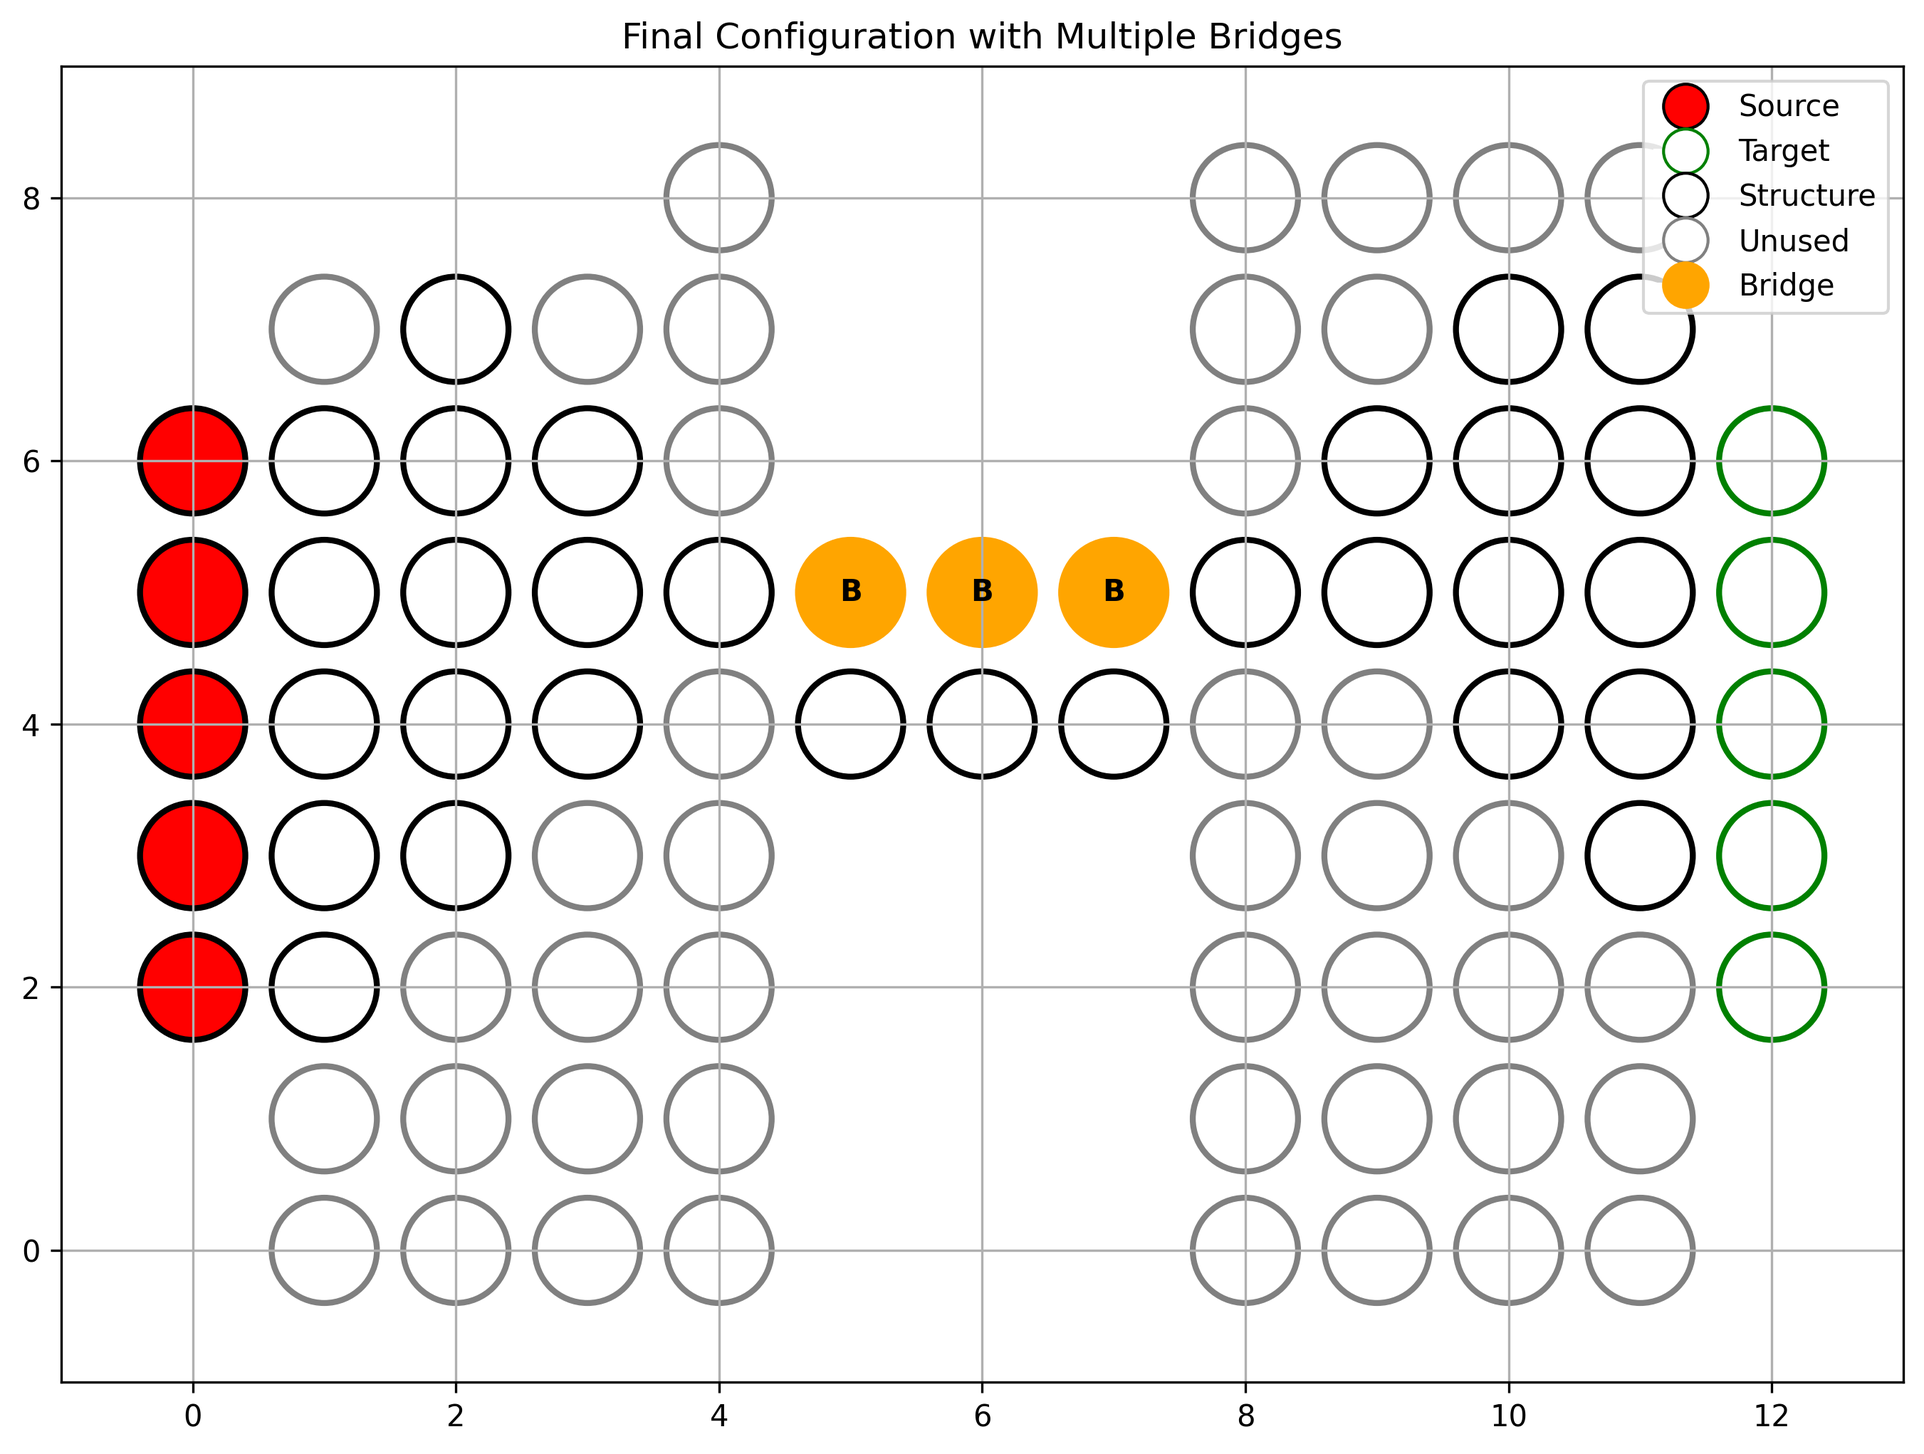
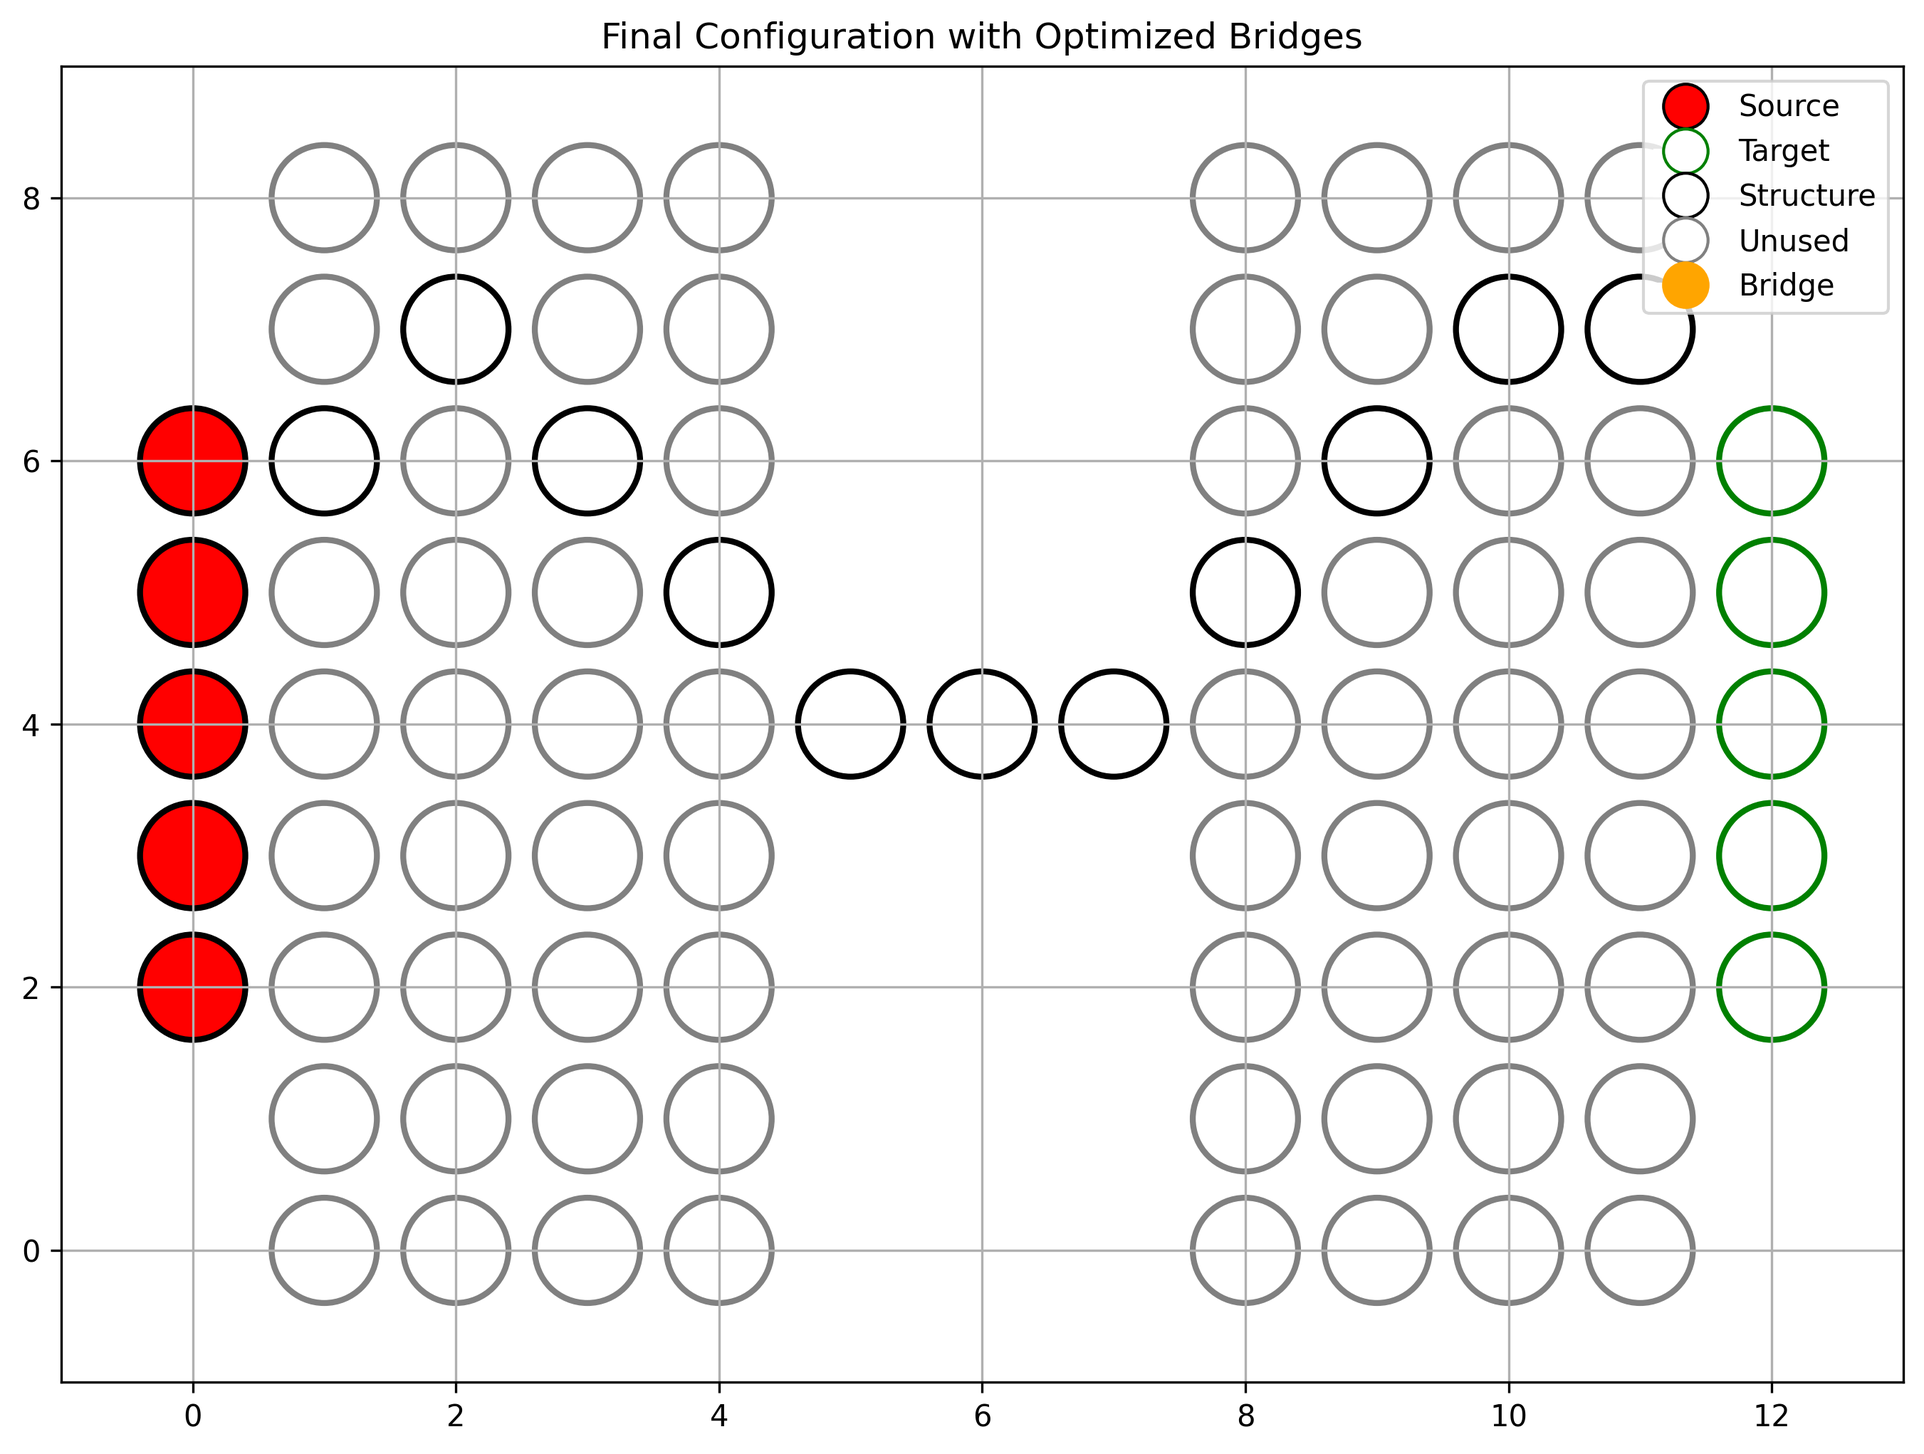
Trying with the bridge formation

diff --git a/dynamic_bridge_2d.py b/dynamic_bridge_2d.py
@@ -246,13 +246,16 @@ class DynamicBridgeSystem:
         self.flow_graph.add_node(self.super_source, pos=(-1, self.height//2), type='super_source')
         self.flow_graph.add_node(self.super_sink, pos=(self.width, self.height//2), type='super_sink')
         
-        # Connect source modules to super source
+        # Connect source modules to super source with capacity 1
         for source in self.source_modules:
             self.flow_graph.add_edge(self.super_source, source.id, capacity=1)
         
-        # Connect target positions to super sink
+        # Connect target positions to super sink with capacity 1
         for target in self.target_positions:
             self.flow_graph.add_edge(target.id, self.super_sink, capacity=1)
+        
+        # Identify original bridge modules (in row 4)
+        original_bridge_ids = ["M_B_5", "M_B_6", "M_B_7"]
         
         # Connect adjacent structure modules
         structure_modules = [m for m in self.modules.values() 
@@ -261,23 +264,48 @@ class DynamicBridgeSystem:
         for i, module1 in enumerate(structure_modules):
             for module2 in structure_modules[i+1:]:
                 if module1.is_adjacent_to(module2):
-                    # Add bidirectional edges with capacity 10 (increased from 1)
-                    self.flow_graph.add_edge(module1.id, module2.id, capacity=10)
-                    self.flow_graph.add_edge(module2.id, module1.id, capacity=10)
+                    # Determine capacity based on module types and IDs
+                    if module1.id in original_bridge_ids or module2.id in original_bridge_ids:
+                        # Original bridge modules have very limited capacity (0.5)
+                        capacity = 1
+                    elif module1.type == ModuleType.BRIDGE or module2.type == ModuleType.BRIDGE:
+                        # New bridge modules have capacity 1
+                        capacity = 1
+                    else:
+                        # Regular structure modules have capacity 10
+                        capacity = 10
+                    
+                    # Add bidirectional edges with appropriate capacity
+                    self.flow_graph.add_edge(module1.id, module2.id, capacity=capacity)
+                    self.flow_graph.add_edge(module2.id, module1.id, capacity=capacity)
         
         # Connect sources to adjacent structure modules
         for source in self.source_modules:
             adjacent_modules = self.get_adjacent_modules(source)
             for adj in adjacent_modules:
                 if adj.type in [ModuleType.STRUCTURE, ModuleType.BRIDGE]:
-                    self.flow_graph.add_edge(source.id, adj.id, capacity=10)  # Increased from 1
+                    # Determine capacity based on module ID
+                    if adj.id in original_bridge_ids:
+                        capacity = 0.5
+                    elif adj.type == ModuleType.BRIDGE:
+                        capacity = 1
+                    else:
+                        capacity = 10
+                    self.flow_graph.add_edge(source.id, adj.id, capacity=capacity)
         
         # Connect targets to adjacent structure modules
         for target in self.target_positions:
             adjacent_modules = self.get_adjacent_modules(target)
             for adj in adjacent_modules:
                 if adj.type in [ModuleType.STRUCTURE, ModuleType.BRIDGE]:
-                    self.flow_graph.add_edge(adj.id, target.id, capacity=10)  # Increased from 1
+                    # Determine capacity based on module ID
+                    if adj.id in original_bridge_ids:
+                        capacity = 0.5
+                    elif adj.type == ModuleType.BRIDGE:
+                        capacity = 1
+                    else:
+                        capacity = 10
+                    self.flow_graph.add_edge(adj.id, target.id, capacity=capacity)
         
         return self.flow_graph
 
@@ -810,6 +838,193 @@ class DynamicBridgeSystem:
         
         return path_exists
 
+    def are_positions_empty(self, positions):
+        """
+        Check if all given positions are empty and within grid bounds.
+        
+        Args:
+            positions: List of (x, y) coordinate tuples to check
+            
+        Returns:
+            bool: True if all positions are empty, False otherwise
+        """
+        for x, y in positions:
+            # Check if position is within grid bounds
+            if not (0 <= x < self.width and 0 <= y < self.height):
+                return False
+                
+            # Check if position is empty
+            if self.grid[y][x].type != ModuleType.EMPTY:
+                return False
+                
+        return True
+    
+    def evaluate_bridge_location(self, bridge_positions):
+        """
+        Simulate placing a bridge at the given positions and evaluate flow improvement.
+        
+        Args:
+            bridge_positions: List of (x, y) positions for the proposed bridge
+            
+        Returns:
+            float: Flow improvement (new_flow - current_flow), or -1 if invalid
+        """
+        # Validate input
+        if not bridge_positions:
+            return -1
+            
+        # Calculate current flow as baseline
+        current_flow, _ = self.calculate_max_flow()
+        
+        # Check if positions are valid for bridge placement
+        if not self.verify_bridge_placement(bridge_positions) or not self.are_positions_empty(bridge_positions):
+            return -1
+            
+        # Create a temporary copy of the system for simulation
+        temp_system = copy.deepcopy(self)
+        
+        # Find unused modules to simulate bridge creation
+        unused_modules = [m for m in temp_system.bridge_candidates if m.type == ModuleType.UNUSED]
+        
+        # Check if we have enough unused modules
+        if len(unused_modules) < len(bridge_positions):
+            return -1
+            
+        # Place bridge modules in the temporary system
+        for i, (x, y) in enumerate(bridge_positions):
+            module = unused_modules[i]
+            # Simply teleport the module (don't need to simulate movement for evaluation)
+            module.x, module.y = x, y
+            module.type = ModuleType.BRIDGE
+            temp_system.grid[y][x] = module
+            
+        # Rebuild flow graph in temporary system
+        temp_system.flow_graph = nx.DiGraph()
+        temp_system.build_flow_graph()
+        
+        # Calculate new flow
+        new_flow, _ = temp_system.calculate_max_flow()
+        
+        # Return improvement
+        return new_flow - current_flow
+
+    def iterative_bottleneck_optimization(self, max_iterations=5, min_improvement=0, visualization_dir=None):
+        """
+        Iteratively identify bottlenecks and create bridges to address them.
+        
+        This method implements an adaptive optimization approach that:
+        1. Detects current bottlenecks in the flow network
+        2. Evaluates potential bridges around each bottleneck
+        3. Creates the bridge with the highest expected flow improvement
+        4. Repeats until no more beneficial bridges can be created
+        
+        Args:
+            max_iterations: Maximum number of optimization iterations
+            min_improvement: Minimum required flow improvement to continue
+            visualization_dir: Directory to save visualization images (optional)
+            
+        Returns:
+            tuple: (created_bridges, total_improvement)
+                - created_bridges: List of dictionaries with bridge information
+                - total_improvement: Overall flow improvement achieved
+        """
+        initial_flow, _ = self.calculate_max_flow()
+        created_bridges = []
+        current_flow = initial_flow
+        iteration_visualizations = []
+        
+        print(f"Starting iterative optimization with initial flow: {initial_flow}")
+        
+        for iteration in range(max_iterations):
+            print(f"\n--- Iteration {iteration+1}/{max_iterations} ---")
+            
+            # 1. Detect bottlenecks
+            bottlenecks = self.detect_bottlenecks()
+            if not bottlenecks:
+                print("No bottlenecks detected - network is optimized!")
+                break
+                
+            print(f"Detected bottlenecks: {bottlenecks}")
+            
+            # 2. For each bottleneck, identify potential bypass options
+            best_bridge = None
+            best_improvement = 0
+            
+            for bottleneck_id in bottlenecks:
+                bottleneck = self.modules.get(bottleneck_id)
+                if not bottleneck:
+                    continue
+                    
+                print(f"Analyzing bottleneck: {bottleneck_id} at ({bottleneck.x}, {bottleneck.y})")
+                
+                # Find rows adjacent to bottleneck for potential bridges
+                for offset in [-1, 1]:  # Check one row above and below
+                    row = bottleneck.y + offset
+                    
+                    if 0 <= row < self.height:  # Check row is within grid bounds
+                        # Create potential bridge positions
+                        bridge_positions = [(x, row) for x in range(5, 8)]
+                        
+                        # 3. Evaluate potential bridge at this location
+                        improvement = self.evaluate_bridge_location(bridge_positions)
+                        
+                        print(f"  - Row {row}: Expected improvement = {improvement}")
+                        
+                        if improvement > best_improvement:
+                            best_improvement = improvement
+                            best_bridge = {'row': row, 'positions': bridge_positions, 'improvement': improvement}
+            
+            # 4. If we found a beneficial bridge, create it
+            if best_bridge and best_improvement > min_improvement:
+                print(f"\nCreating bridge in row {best_bridge['row']} for expected improvement of {best_bridge['improvement']}")
+                
+                # Actually create the bridge
+                bridge_modules = self.create_connected_bridge(best_bridge['row'])
+                
+                if bridge_modules:
+                    bridge_info = {
+                        'row': best_bridge['row'],
+                        'modules': [m.id for m in bridge_modules],
+                        'improvement': best_improvement,
+                        'iteration': iteration + 1
+                    }
+                    created_bridges.append(bridge_info)
+                    
+                    # Update current flow
+                    current_flow, _ = self.calculate_max_flow()
+                    actual_improvement = current_flow - (initial_flow + sum(b['improvement'] for b in created_bridges[:-1]))
+                    print(f"New flow after bridge creation: {current_flow}")
+                    print(f"Actual improvement: {actual_improvement} (expected: {best_improvement})")
+                    
+                    # Save visualization if directory provided
+                    if visualization_dir:
+                        os.makedirs(visualization_dir, exist_ok=True)
+                        vis_path = f"{visualization_dir}/iteration_{iteration+1}_bridge_row_{best_bridge['row']}.png"
+                        self.visualize_grid(f"After Bridge in Row {best_bridge['row']} (Iteration {iteration+1})", 
+                                          save_path=vis_path, show=False)
+                        
+                        # Visualize flow with new bridge
+                        flow_vis_path = f"{visualization_dir}/iteration_{iteration+1}_flow.png"
+                        self.visualize_flow(f"Flow After Iteration {iteration+1}", 
+                                         save_path=flow_vis_path, show=False)
+                        
+                        iteration_visualizations.append((vis_path, flow_vis_path))
+                else:
+                    print("Failed to create bridge - breaking optimization loop")
+                    break
+            else:
+                print(f"No beneficial bridges found (best improvement: {best_improvement})")
+                break
+        
+        total_improvement = current_flow - initial_flow
+        print(f"\nOptimization complete:")
+        print(f"- Initial flow: {initial_flow}")
+        print(f"- Final flow: {current_flow}")
+        print(f"- Total improvement: +{total_improvement}")
+        print(f"- Bridges created: {len(created_bridges)}")
+        
+        return created_bridges, total_improvement
+
 # Example usage
 if __name__ == "__main__":
     # Create a 13x9 grid for our example
@@ -823,12 +1038,13 @@ if __name__ == "__main__":
         os.makedirs("images_2d")
     
     # Create simulation directory for step-by-step images
-    if not os.path.exists("images_2d/simulation"):
-        os.makedirs("images_2d/simulation")
+    simulation_dir = "images_2d/simulation"
+    if not os.path.exists(simulation_dir):
+        os.makedirs(simulation_dir)
     
     # Visualize the initial state and save it
     system.visualize_grid("Initial Configuration", 
-                       save_path="images_2d/simulation/01_initial_configuration.png")
+                       save_path=f"{simulation_dir}/01_initial_configuration.png")
     
     print("Grid initialized. Check the saved visualization in images_2d/simulation/")
     
@@ -839,7 +1055,7 @@ if __name__ == "__main__":
     
     # Visualize the flow
     system.visualize_flow("Initial Flow Network", 
-                       save_path="images_2d/simulation/02_initial_flow.png")
+                       save_path=f"{simulation_dir}/02_initial_flow.png")
     
     # Identify unused modules
     print("Identifying unused modules...")
@@ -848,50 +1064,42 @@ if __name__ == "__main__":
     
     # Visualize the grid with unused modules highlighted
     system.visualize_grid("Configuration with Unused Modules Identified", 
-                       save_path="images_2d/simulation/03_unused_modules_identified.png")
-    
-    # Detect bottlenecks
-    print("Detecting bottlenecks...")
-    bottlenecks = system.detect_bottlenecks()
-    print(f"Found {len(bottlenecks)} bottleneck modules: {bottlenecks}")
+                       save_path=f"{simulation_dir}/03_unused_modules_identified.png")
     
     # Verify initial path connectivity
     print("\nVerifying initial path connectivity...")
     initial_paths = system.verify_all_paths()
     
-    # Try to create bridges in multiple rows
-    bridge_rows = [3, 5]  # Try rows 3 and 5 (above and below the existing bridge in row 4)
+    # Create a directory for optimization iterations
+    optimization_dir = f"{simulation_dir}/optimization"
+    if not os.path.exists(optimization_dir):
+        os.makedirs(optimization_dir)
     
-    created_bridges = []
-    for row in bridge_rows:
-        print(f"\nAttempting to create a bridge in row {row}...")
-        bridge_modules = system.create_connected_bridge(row)
-        if bridge_modules:
-            created_bridges.append((row, bridge_modules))
+    # Run iterative bottleneck optimization
+    print("\nStarting iterative bottleneck optimization...")
+    created_bridges, improvement = system.iterative_bottleneck_optimization(
+        max_iterations=3,
+        min_improvement=0,
+        visualization_dir=optimization_dir
+    )
     
     # Final visualization showing all bridges
-    system.visualize_grid("Final Configuration with Multiple Bridges", 
-                       save_path="images_2d/simulation/06_final_bridges.png")
-    
-    # Recalculate the maximum flow with the new bridges
-    print("\nRecalculating maximum flow with all bridges...")
-    # Rebuild the flow graph to include all bridges
-    system.flow_graph = nx.DiGraph()
-    system.build_flow_graph()
-    flow_value, flow_dict = system.calculate_max_flow()
-    print(f"New maximum flow value: {flow_value}")
-    
-    # Verify final path connectivity
-    print("\nVerifying final path connectivity...")
-    final_paths = system.verify_all_paths()
+    system.visualize_grid("Final Configuration with Optimized Bridges", 
+                       save_path=f"{simulation_dir}/06_final_bridges.png")
     
     # Visualize the improved flow
-    system.visualize_flow("Flow Network with Bridges", 
-                       save_path="images_2d/simulation/07_flow_with_bridges.png")
+    system.visualize_flow("Final Flow Network with Optimized Bridges", 
+                       save_path=f"{simulation_dir}/07_flow_with_bridges.png")
+    
+    # Generate a summary of created bridges
+    print("\nBridge Creation Summary:")
+    for i, bridge in enumerate(created_bridges):
+        print(f"Bridge {i+1} in row {bridge['row']} (Iteration {bridge['iteration']}):")
+        print(f"- Module IDs: {bridge['modules']}")
+        print(f"- Expected improvement: {bridge['improvement']}")
     
     print("\nAnalysis and bridge construction complete.")
-    print(f"Created {len(created_bridges)} new bridges in rows: {[row for row, _ in created_bridges]}")
-    print(f"Maximum flow increased from 1 to {flow_value}")
+    print(f"Maximum flow increased from {flow_value} to {flow_value + improvement}")
     print("Check the saved visualizations in the images_2d/simulation directory.")
     print("Press Enter to continue...")
     input()  # Wait for user input before closing 
